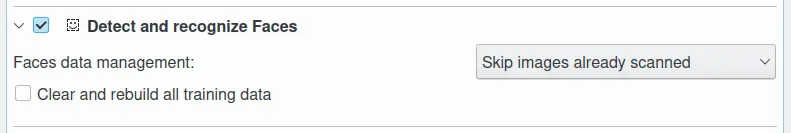
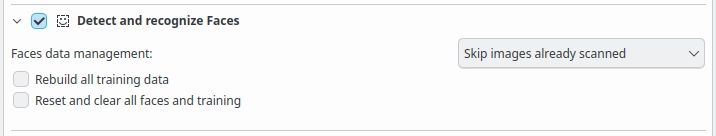
Maintenance modified for 8.5.0
Maintenance view documentation modified for 8.5.0

Changed region(s): [[0.0, 0.0, 1.0, 1.0]]

diff --git a/maintenance_tools/maintenance_faces.rst b/maintenance_tools/maintenance_faces.rst
@@ -21,7 +21,7 @@ Detect and Recognize Faces
 
     The digiKam Maintenance Options to Detect and Recognize Faces
 
-This is the same process you can access in the **People** view with the **Scan Collection for Faces** button. Here you just cannot set the **Fast - Accurate** parameter but just the **Face Data Management** method and the option to **Clear and rebuild all training data**. For more information about the **Faces Data Management** options see :ref:`the People View section <people_view>`.
+This process is also accessible in the **People** view via the **Scan collection for faces** button. However, here you can only set the **Faces data management** method. For more information about the **Faces Data Management** options see :ref:`the People View section <people_view>`
 
 .. figure:: images/maintenance_faces_scan.webp
     :alt:
@@ -29,7 +29,7 @@ This is the same process you can access in the **People** view with the **Scan C
 
     The Scan Collection for Faces Button from People Left Sidebar
 
-While the faces management process is under progress, notification on the bottom right of main windows will be visible to indicate the amount of items already done.
+While the face management process is ongoing, a notification will appear in the bottom right corner of the main window, indicating the number of items processed so far.
 
 .. figure:: images/maintenance_faces_process.webp
     :alt:
@@ -39,4 +39,10 @@ While the faces management process is under progress, notification on the bottom
 
 .. important::
 
-   To run properly, the process needs the deep-learning models to download at the first run of digiKam. See :ref:`the Quick Start section <quick_start>` for details.
+   For face management to work correctly, digiKam needs to download the deep-learning models from the web during its first run. See :ref:`the Quick Start section <quick_start>` for details.
+
+The **Detect and recognize faces** section of the **Maintenance Tool** has 2 additional options for managing your face database.
+
+- **Rebuild all training data**: Use this to clear all training data from the face recognition database and rebuild it using the face tag thumbnails.  This is useful if you have changed the face tag regions on several images, or if the recognition process isn't returning as many results as you expect.
+
+- **Reset and clear all faces and training**: CAUTION! This will delete all training from the face recognition database and do a full detection scan on all images.  When it is complete, all confirmed faces will be moved to **Unknown** and you will have to begin again training your face database. If this process is interrupted, you can salvage face training that hasn't been deleted by running **Rebuild all training data** above.

diff --git a/light_table/lighttable_advanced.rst b/light_table/lighttable_advanced.rst
@@ -85,7 +85,7 @@ To manage faces information, the options below are available:
 
     The digiKam Light Table Editing A Face Tag From The Preview Canvas
 
-The toolbar on top left corner of preview canvas provide also the same options to manage faces. For more details about the manual face tagging, please consult :ref:`the relevant section <manual_face_tagging>` of this manual.
+The toolbar on top left corner of preview canvas provide also the same options to manage faces. For more details about the manual face tagging, please consult :ref:`the relevant section <face_tagging>` of this manual.
 
 Assigning Rate Labels and Tags
 ~~~~~~~~~~~~~~~~~~~~~~~~~~~~~~
